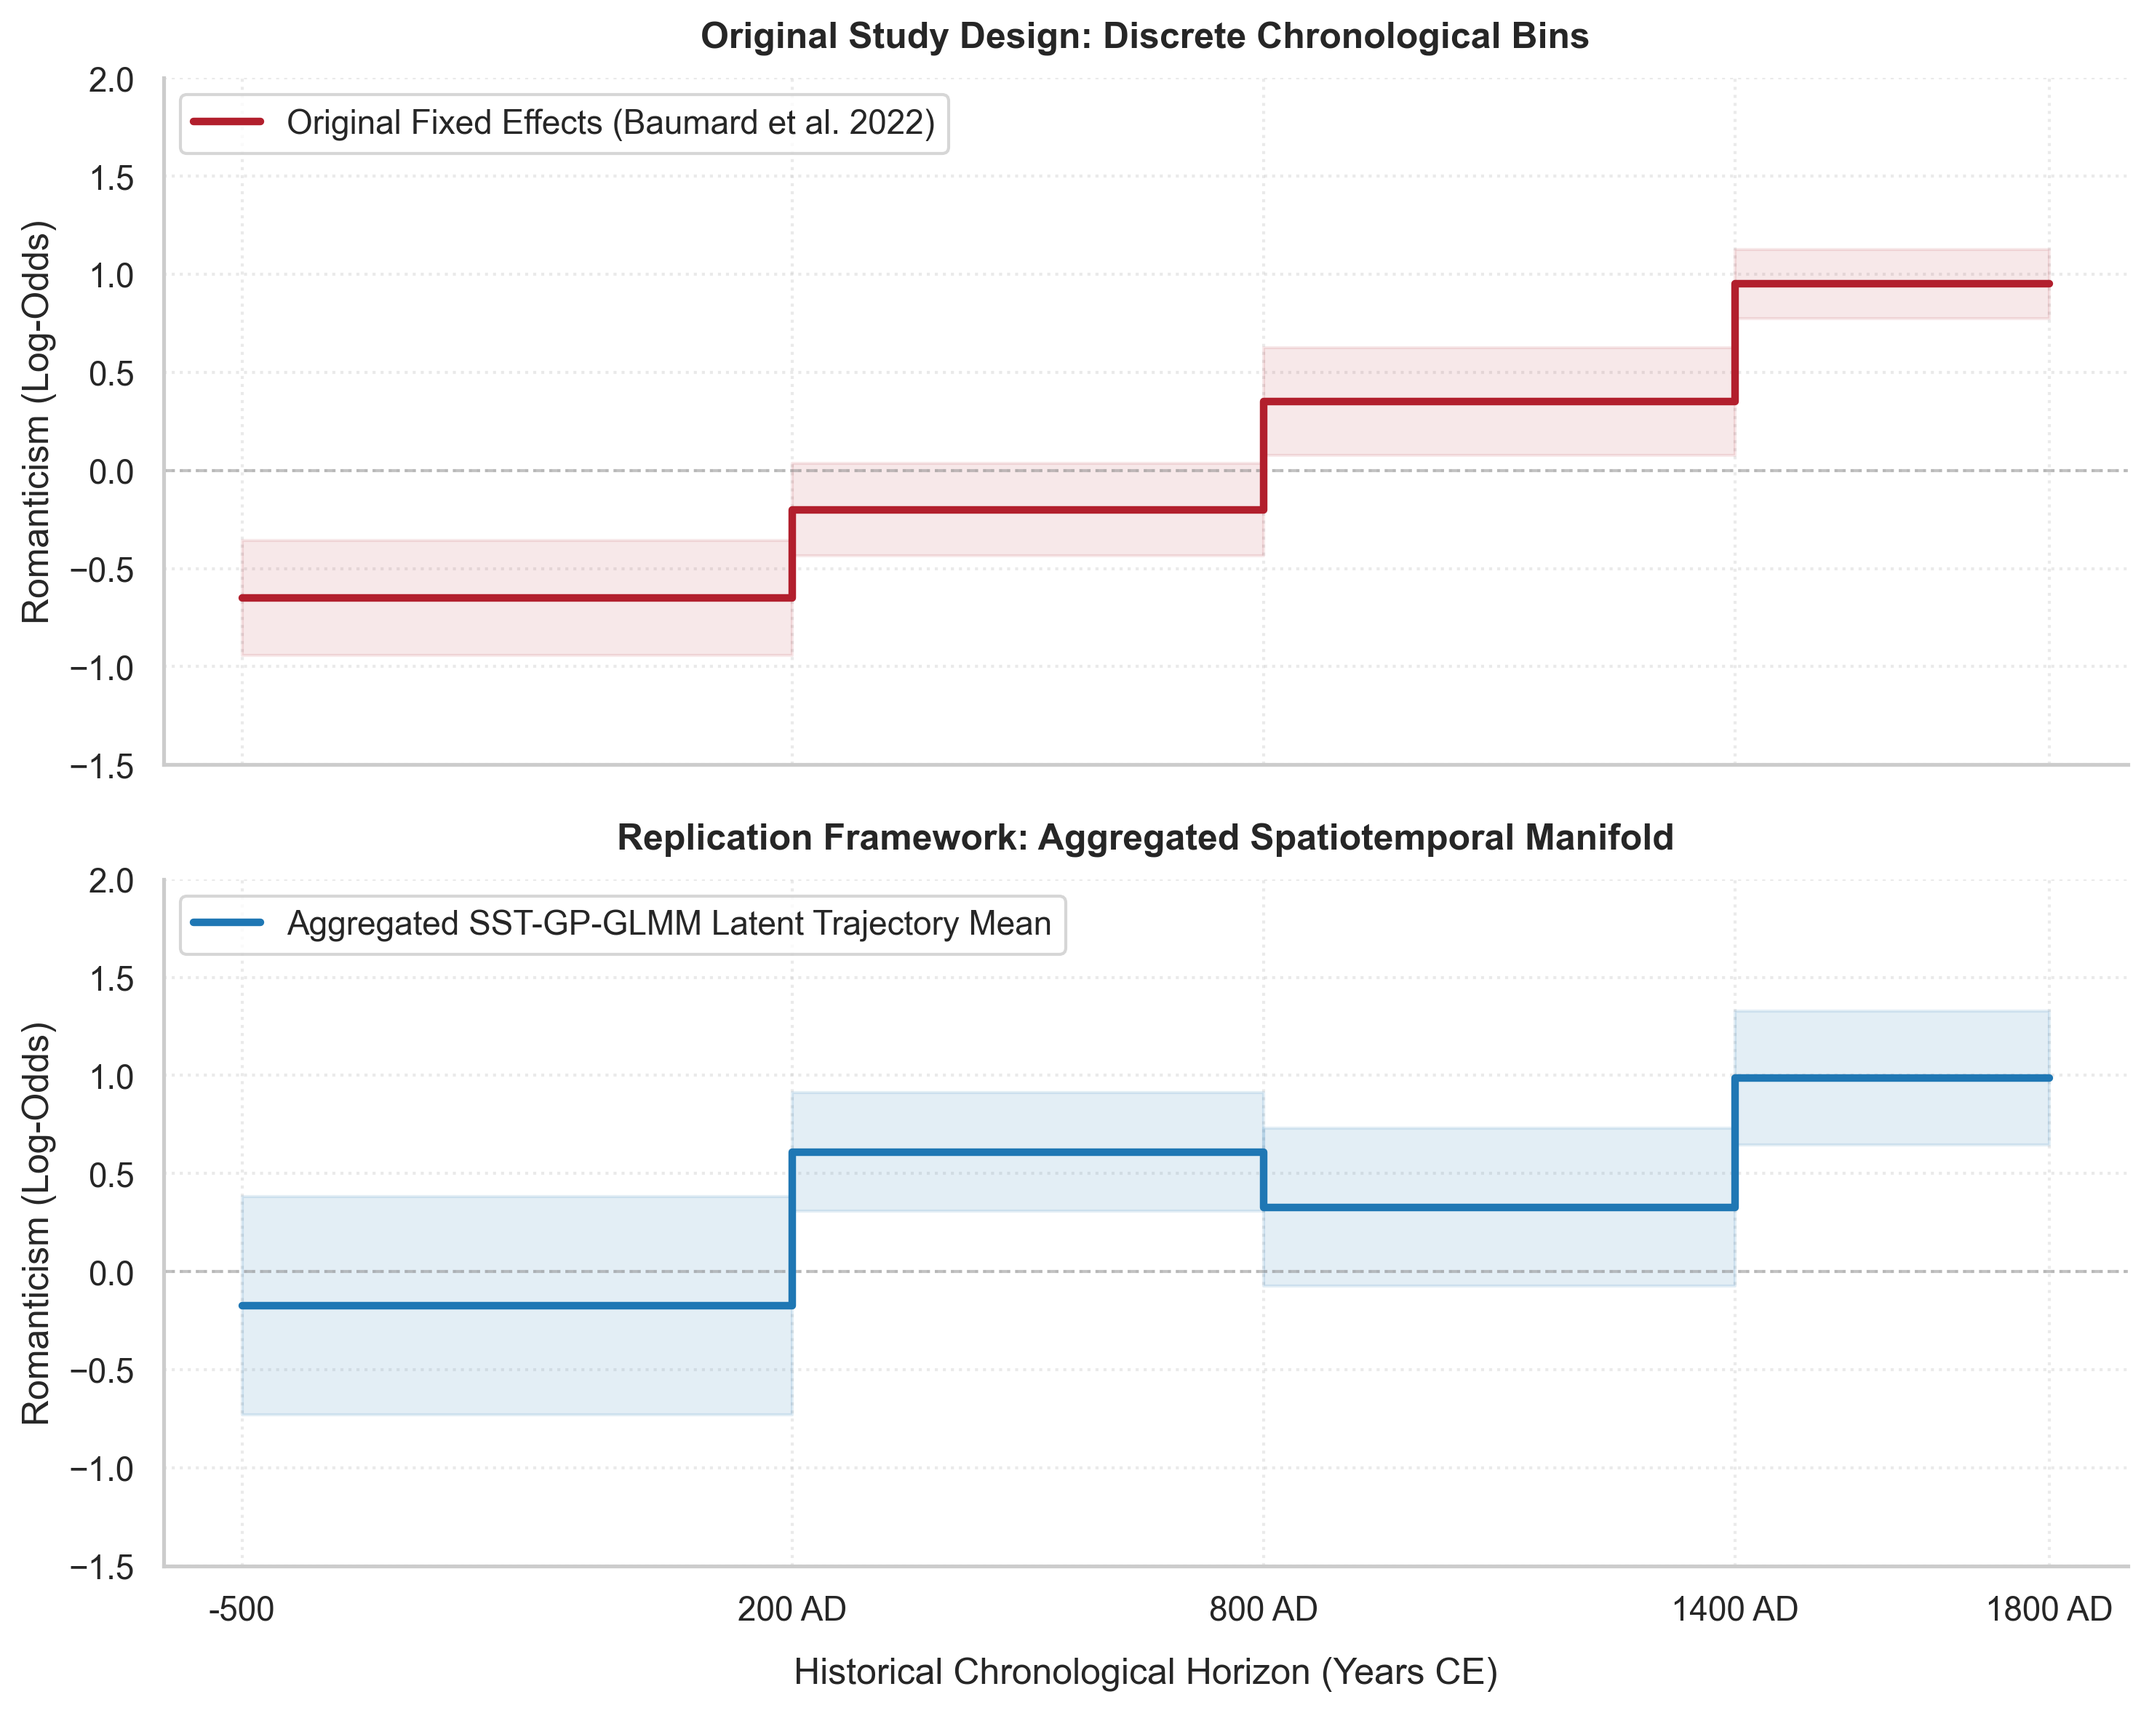
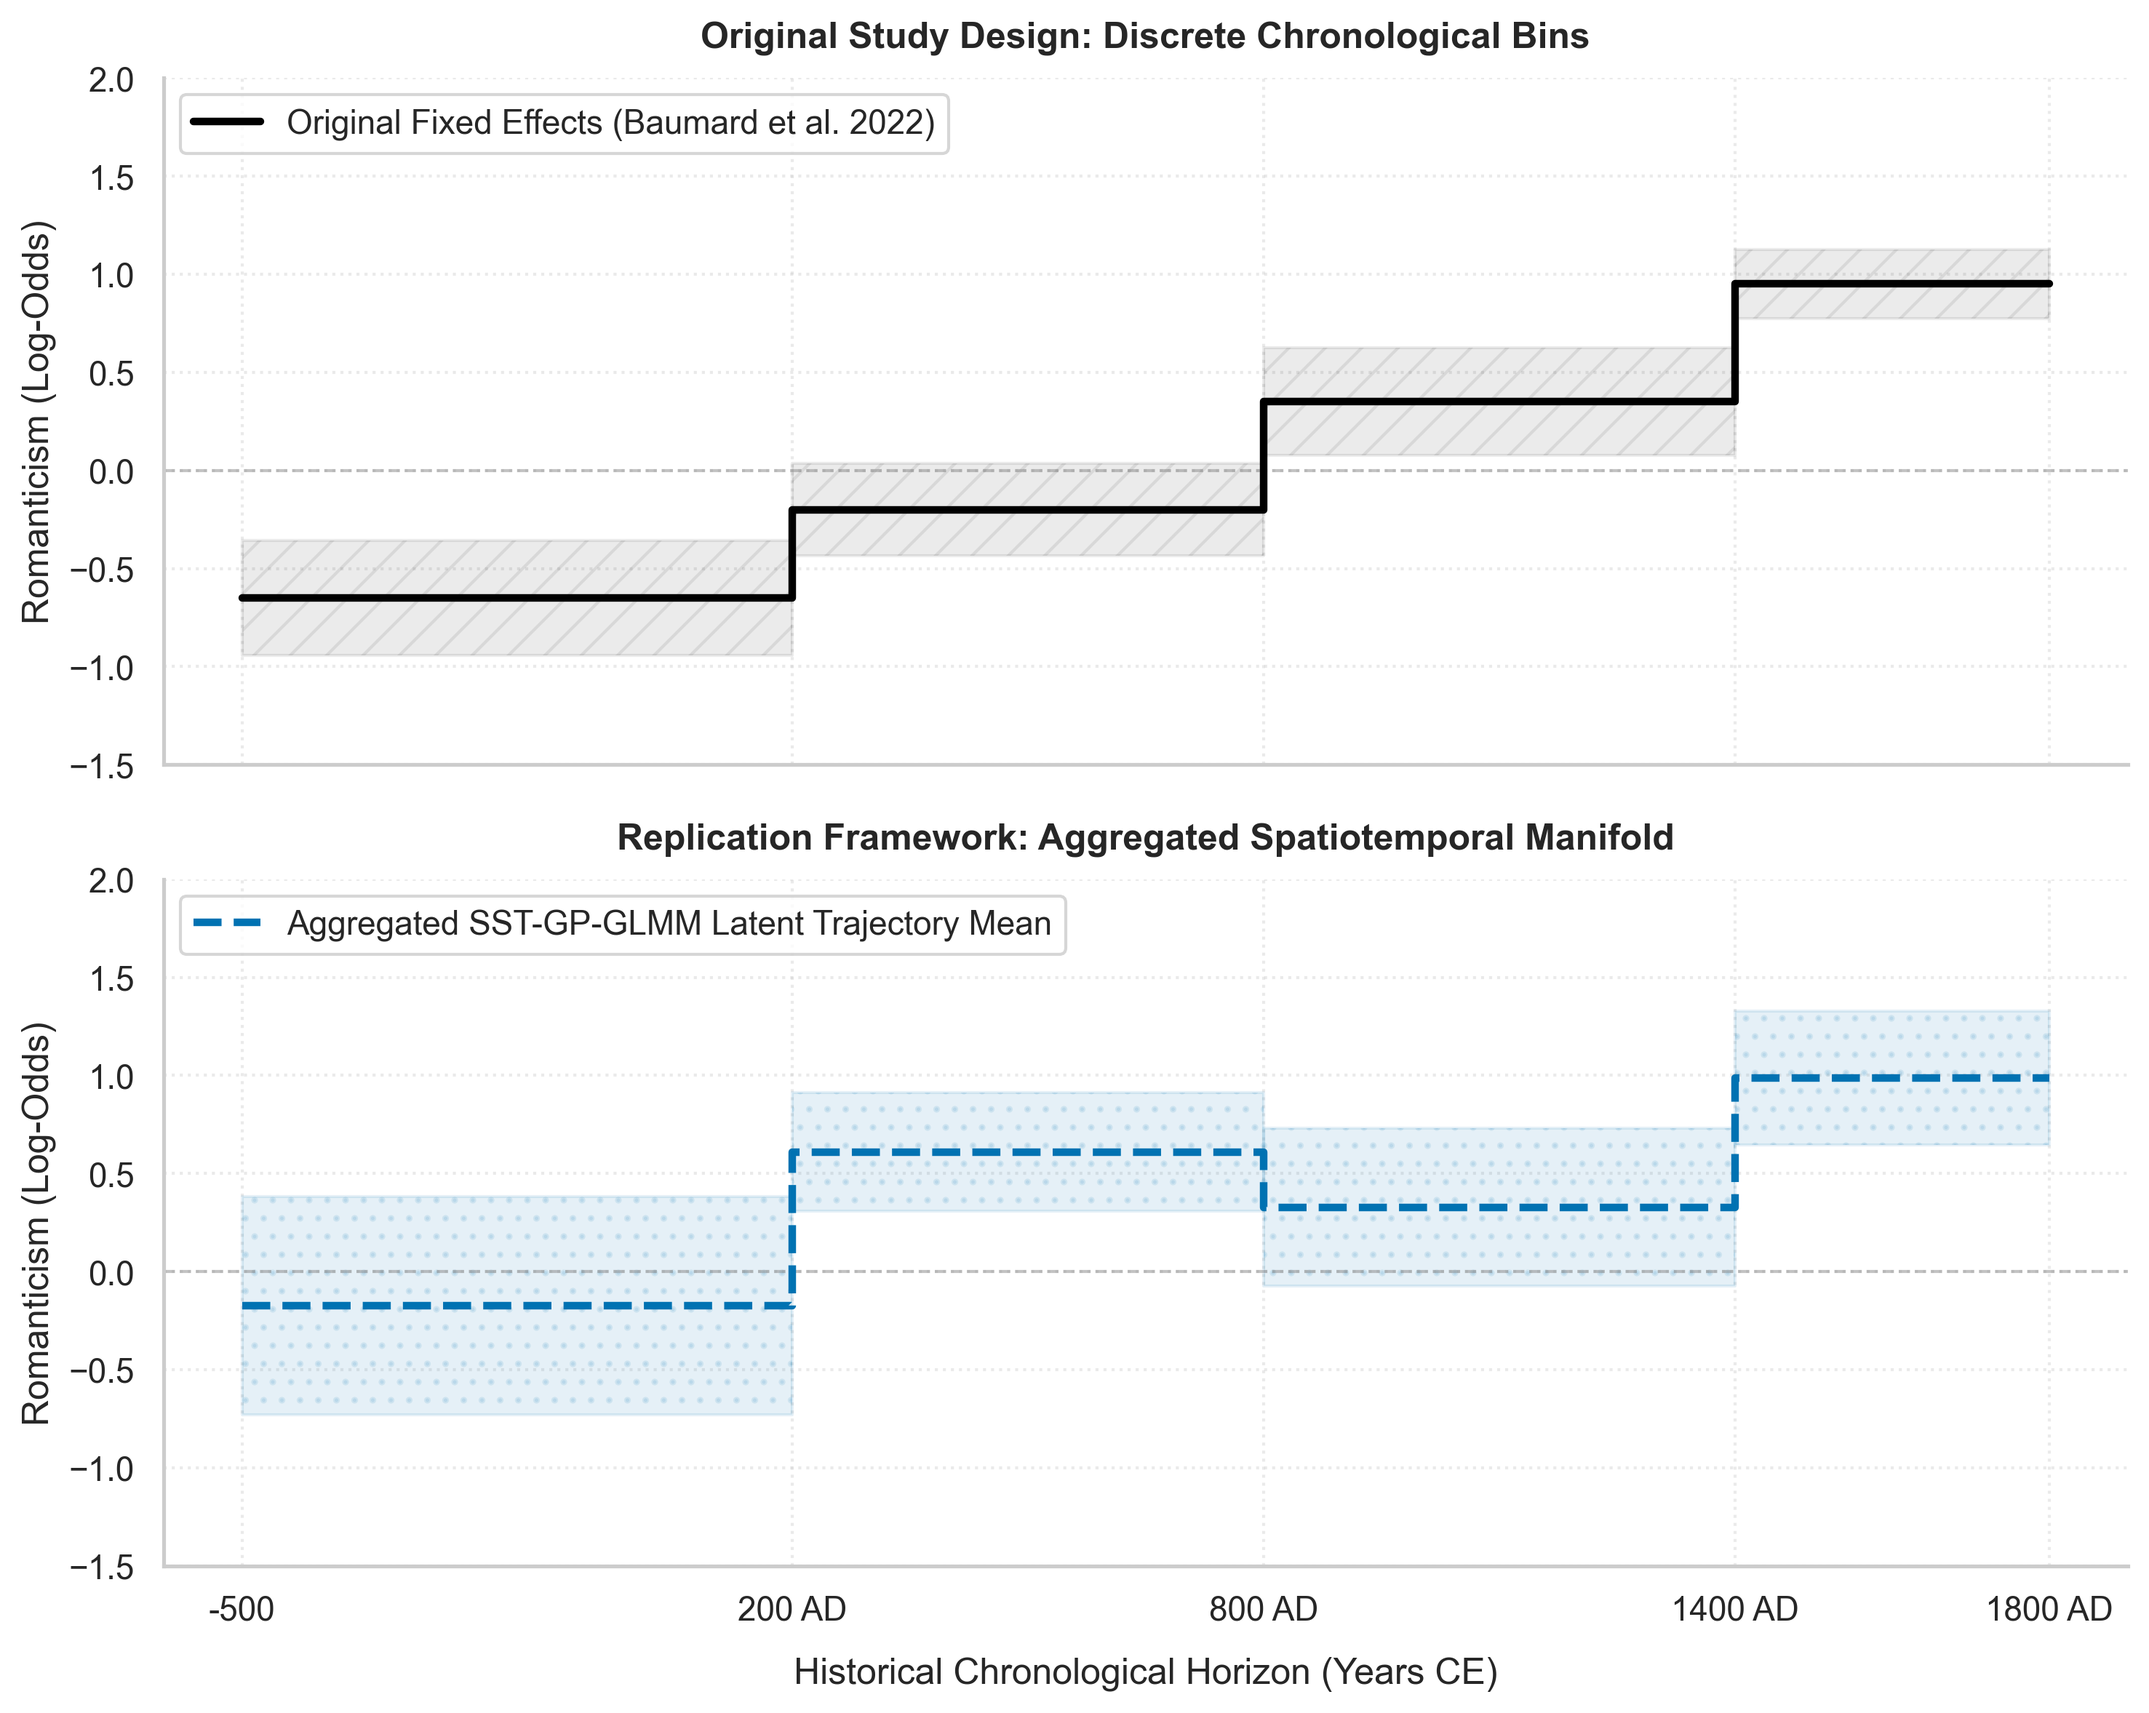
updated colors in charts

diff --git a/utils/generate_plots.py b/utils/generate_plots.py
@@ -1,5 +1,5 @@
 """
-Generates the project's primary manuscript figures and model trend charts.
+generates the project's primary manuscript figures and model trend charts.
 """
 import os
 import numpy as np
@@ -17,7 +17,8 @@ def _load_and_clean_data(data_path):
 
 def plot_publication_trajectories(data_path='output/tables/etc_bayesian_latent_trajectories.csv', output_dir='output/figures'):
     """
-    Plots continuous latent trajectories by region with shaded uncertainty intervals.
+    plots continuous latent trajectories by region with shaded uncertainty intervals.
+    applies a broad, high-contrast palette with transparent shading to support overlapping lines.
     """
     sns.set_theme(style="white")
     plt.rcParams.update({
@@ -28,24 +29,25 @@ def plot_publication_trajectories(data_path='output/tables/etc_bayesian_latent_t
 
     df = _load_and_clean_data(data_path)
 
+    # okabe-ito safe palette definitions mapping high-contrast cross-vision values
     paper_styles = {
-        'Greek world':   {'code': 'GRE', 'color': '#0B132B'},
-        'Latin world':   {'code': 'LAT', 'color': '#1C2541'},
-        'Arab world':    {'code': 'ARA', 'color': '#007F5F'},
-        'China':         {'code': 'CHI', 'color': '#D94E34'},
-        'Japan':         {'code': 'JAP', 'color': '#E9C46A'},
-        'France':        {'code': 'FRA', 'color': '#00B4D8'},
-        'England':       {'code': 'ENG', 'color': '#0077B6'},
-        'Indian world':  {'code': 'IND', 'color': '#9B2226'},
-        'Russian world': {'code': 'RUS', 'color': '#7209B7'},
-        'Wales':         {'code': 'WEL', 'color': '#4CC9F0'},
-        'Ireland':       {'code': 'IRE', 'color': '#B5179E'},
-        'Iceland':       {'code': 'ICE', 'color': '#F72585'},
-        'Italy':         {'code': 'ITA', 'color': '#4a5759'},
-        'Spain':         {'code': 'SPA', 'color': '#2f3e46'},
-        'German World':  {'code': 'GER', 'color': '#6b705c'},
-        'Low Countries': {'code': 'LOW', 'color': '#a5a58d'},
-        'Ancient Egypt': {'code': 'EGY', 'color': '#3f37c9'}
+        'Greek world':   {'code': 'GRE', 'color': '#0072B2'}, # deep blue
+        'Latin world':   {'code': 'LAT', 'color': '#E69F00'}, # amber
+        'Arab world':    {'code': 'ARA', 'color': '#009E73'}, # bluish green
+        'China':         {'code': 'CHI', 'color': '#D55E00'}, # vermilion
+        'Japan':         {'code': 'JAP', 'color': '#CC79A7'}, # reddish purple
+        'France':        {'code': 'FRA', 'color': '#56B4E9'}, # sky blue
+        'England':       {'code': 'ENG', 'color': '#F0E442'}, # yellow
+        'Indian world':  {'code': 'IND', 'color': '#000000'}, # black
+        'Russian world': {'code': 'RUS', 'color': '#444444'}, # dark gray
+        'Wales':         {'code': 'WEL', 'color': '#111111'}, # charcoal
+        'Ireland':       {'code': 'IRE', 'color': '#222222'},
+        'Iceland':       {'code': 'ICE', 'color': '#666666'},
+        'Italy':         {'code': 'ITA', 'color': '#777777'},
+        'Spain':         {'code': 'SPA', 'color': '#888888'},
+        'German World':  {'code': 'GER', 'color': '#999999'},
+        'Low Countries': {'code': 'LOW', 'color': '#aaaaaa'},
+        'Ancient Egypt': {'code': 'EGY', 'color': '#bbbbbb'}
     }
 
     fig, ax = plt.subplots(figsize=(10.5, 7.5), dpi=300)
@@ -87,19 +89,21 @@ def plot_publication_trajectories(data_path='output/tables/etc_bayesian_latent_t
 
 def generate_century_binned_plot(data_path='output/tables/etc_bayesian_latent_trajectories.csv', output_dir='output/figures'):
     """
-    Groups historical years into discrete centuries to reduce baseline timeline clutter.
+    groups historical years into discrete centuries to reduce baseline timeline clutter.
+    pairs unique markers and line styles to secure legibility in greyscale printouts.
     """
     df = _load_and_clean_data(data_path)
     df['Century'] = (np.floor(df['Historical_Year'] / 100) * 100).astype(int)
     summary = df.groupby(['Regional_Zone', 'Century'])['Latent_Value_Mean'].mean().reset_index()
 
+    # colorblind-safe palettes combined with unique markers and structural line types
     focus_regions = {
-        'GRE': {'name': 'Greek World', 'color': '#1f77b4', 'marker': 'o'},
-        'LAT': {'name': 'Latin World', 'color': '#7bc8f6', 'marker': 's'},
-        'CHI': {'name': 'China Core', 'color': '#ff7f0e', 'marker': '^'},
-        'FRA': {'name': 'France', 'color': '#d62728', 'marker': 'd'},
-        'ENG': {'name': 'England', 'color': '#9467bd', 'marker': 'v'},
-        'ARA': {'name': 'Arabic World', 'color': '#2ca02c', 'marker': 'x'}
+        'GRE': {'name': 'Greek World', 'color': '#0072B2', 'marker': 'o', 'style': '-'},   # blue solid
+        'LAT': {'name': 'Latin World', 'color': '#E69F00', 'marker': 's', 'style': '--'},  # amber dashed
+        'CHI': {'name': 'China Core', 'color': '#D55E00', 'marker': '^', 'style': '-.'},  # vermilion dashdot
+        'FRA': {'name': 'France', 'color': '#009E73', 'marker': 'd', 'style': ':'},   # green dotted
+        'ENG': {'name': 'England', 'color': '#CC79A7', 'marker': 'v', 'style': '-'},   # purple solid
+        'ARA': {'name': 'Arabic World', 'color': '#000000', 'marker': 'x', 'style': '--'}  # black dashed
     }
 
     fig, ax = plt.subplots(figsize=(10, 5.5), dpi=300)
@@ -110,7 +114,8 @@ def generate_century_binned_plot(data_path='output/tables/etc_bayesian_latent_tr
         region_data = summary[summary['Regional_Zone'] == code].sort_values('Century')
         if not region_data.empty:
             ax.plot(region_data['Century'], region_data['Latent_Value_Mean'], label=meta['name'],
-                    color=meta['color'], marker=meta['marker'], linewidth=1.75, markersize=5, alpha=0.9)
+                    color=meta['color'], marker=meta['marker'], linestyle=meta['style'],
+                    linewidth=1.75, markersize=5, alpha=0.9)
 
     ax.set_title("Inferred Trajectory of Romantic Themes Across Historical Eras", fontsize=12, fontweight='bold', pad=14)
     ax.set_xlabel("Historical Era", fontsize=10)
@@ -129,10 +134,11 @@ def generate_century_binned_plot(data_path='output/tables/etc_bayesian_latent_tr
 
 def plot_paradigm_comparison(report_path='output/tables/era_binned_comparison.csv', output_dir='output/figures'):
     """
-    Draws a side-by-side comparison of the original step-binned study against our model.
+    draws a side-by-side comparison of the original step-binned study against our model.
+    utilizes structural hatch overlays and distinct line styles to support grayscale printing.
     """
     if not os.path.exists(report_path):
-        print(f"[WARNING] Missing comparison report file at: {report_path}")
+        print(f"Missing comparison report file at: {report_path}")
         return
 
     df = pd.read_csv(report_path)
@@ -152,28 +158,28 @@ def plot_paradigm_comparison(report_path='output/tables/era_binned_comparison.cs
     step_orig = np.append(orig_means, orig_means[-1])
     step_bayes = np.append(bayes_means, bayes_means[-1])
 
-    # original paper data
-    ax1.step(boundaries, step_orig, where='post', color='#b21f2d', lw=2.5, label="Original Fixed Effects (Baumard et al. 2022)")
+    # original paper data: solid high-contrast black profile with high density stripe hatch
+    ax1.step(boundaries, step_orig, where='post', color='#000000', lw=2.5, label="Original Fixed Effects (Baumard et al. 2022)")
     for i in range(4):
         ax1.fill_between(
             [boundaries[i], boundaries[i+1]],
             orig_means[i] - 1.96 * orig_ses[i],
             orig_means[i] + 1.96 * orig_ses[i],
-            color='#b21f2d', alpha=0.1
+            color='#000000', alpha=0.08, hatch='//'
         )
     ax1.set_title("Original Study Design: Discrete Chronological Bins", fontweight='bold', pad=10)
     ax1.set_ylabel("Romanticism (Log-Odds)")
     ax1.set_ylim(-1.5, 2.0)
     ax1.legend(loc="upper left")
 
-    # replicated data (Bayesian model)
-    ax2.step(boundaries, step_bayes, where='post', color='#1f77b4', lw=2.5, label="Aggregated SST-GP-GLMM Latent Trajectory Mean")
+    # replicated data: long-dashed okabe-ito blue profile with soft dot hatch
+    ax2.step(boundaries, step_bayes, where='post', color='#0072B2', lw=2.5, linestyle='--', label="Aggregated SST-GP-GLMM Latent Trajectory Mean")
     for i in range(4):
         ax2.fill_between(
             [boundaries[i], boundaries[i+1]],
             bayes_means[i] - bayes_sds[i],
             bayes_means[i] + bayes_sds[i],
-            color='#1f77b4', alpha=0.12
+            color='#0072B2', alpha=0.10, hatch='..'
         )
     ax2.set_title("Replication Framework: Aggregated Spatiotemporal Manifold", fontweight='bold', pad=10)
     ax2.set_xlabel("Historical Chronological Horizon (Years CE)", labelpad=10)
@@ -181,7 +187,7 @@ def plot_paradigm_comparison(report_path='output/tables/era_binned_comparison.cs
     ax2.set_ylim(-1.5, 2.0)
     ax2.legend(loc="upper left")
 
-    # Formatting cleanups
+    # formatting cleanups
     ax2.set_xlim(-600, 1900)
     ax2.set_xticks(boundaries)
     ax2.set_xticklabels(['-500', '200 AD', '800 AD', '1400 AD', '1800 AD'])
@@ -196,6 +202,7 @@ def plot_paradigm_comparison(report_path='output/tables/era_binned_comparison.cs
     save_path = os.path.join(output_dir, "model_comparison_chart.png")
     plt.savefig(save_path, bbox_inches='tight', dpi=300)
     plt.close()
+    print(f"Exported trajectory paradigm comparisons to: {save_path}")
 
 if __name__ == "__main__":
     plot_publication_trajectories()
